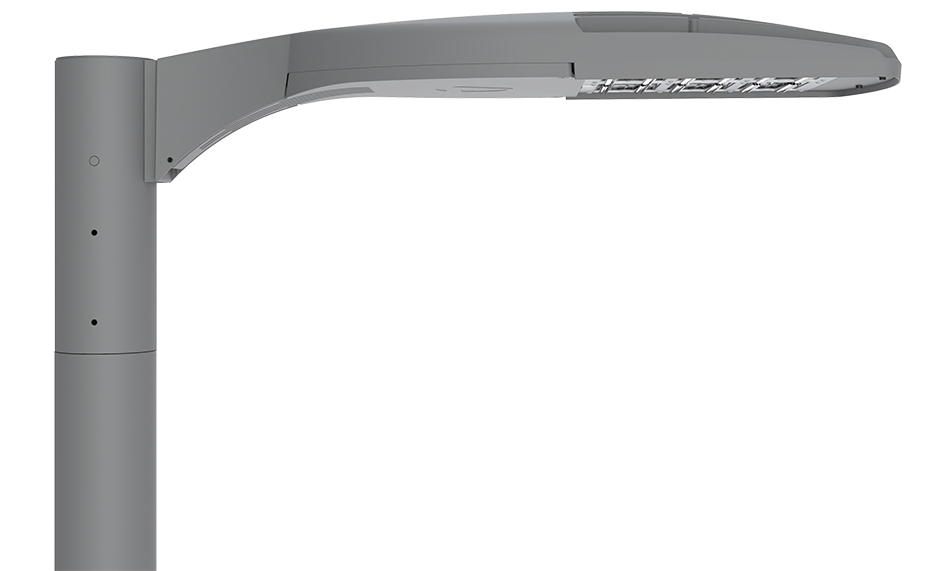
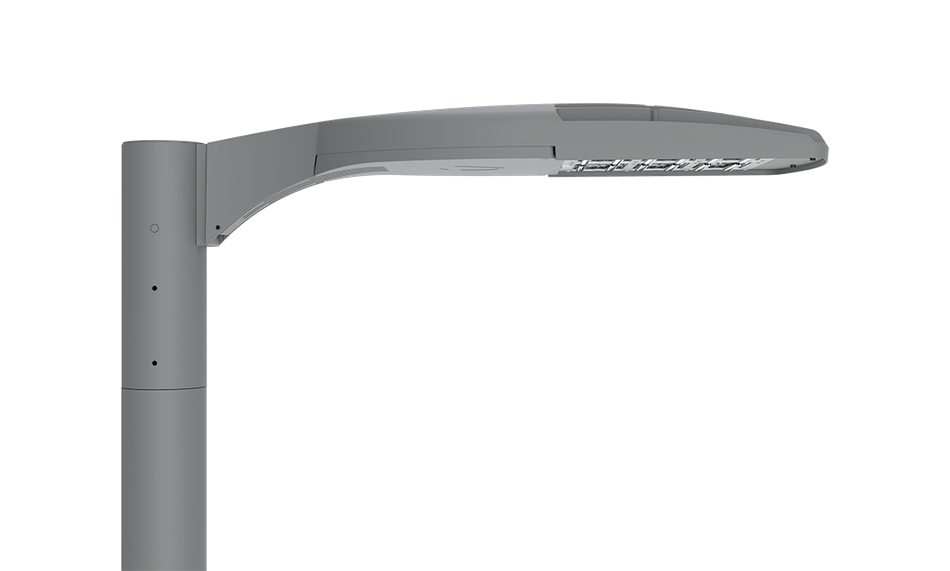
Scale DSX hero image to match DPL, and turn presentation interest list into a dropdown
- DSX's hero/thumbnail photo filled noticeably more of its frame than
  DPL's despite identical CSS, because the source photo had less padding
  around the fixture; rescaled it so the fixture occupies the same
  proportion of the frame as DPL's hero shot
- "What are you interested in?" is now a collapsible dropdown (closed by
  default) instead of an always-open checkbox list, with a live
  "(N selected)" count in the button label so multi-select is still
  possible without permanently taking up form space

Changed region(s): [[0.0305, 0.0, 0.9463, 1.0]]

diff --git a/technical-information.html b/technical-information.html
@@ -82,12 +82,12 @@
             <label for="ti-role">Role / position</label>
             <input type="text" id="ti-role" name="role" autocomplete="organization-title">
           </div>
-          <div class="field">
-            <label id="ti-interest-label">What are you interested in?</label>
-            <div class="checkbox-group" id="ti-interest-group" role="group" aria-labelledby="ti-interest-label">
+          <details class="field field--collapsible" id="ti-interest-details">
+            <summary>What are you interested in?<span class="field__count" id="ti-interest-count"></span></summary>
+            <div class="checkbox-group" id="ti-interest-group" role="group" aria-label="What are you interested in?">
               <p style="color:var(--grey-500);font-family:var(--font-mono);font-size:var(--text-xs)">Loading options…</p>
             </div>
-          </div>
+          </details>
           <details class="field field--collapsible">
             <summary>Anything else?<span class="field__hint">We can tailor a presentation to your requirements — tell us more below.</span></summary>
             <textarea id="ti-notes" name="notes"></textarea>

diff --git a/assets/js/technical-information.js b/assets/js/technical-information.js
@@ -18,6 +18,8 @@
       }
       modal.hidden = false;
       form.reset();
+      updateInterestCount();
+      form.querySelectorAll("details.field--collapsible").forEach(function (d) { d.open = false; });
     });
     modal.querySelectorAll("[data-close]").forEach(function (el) {
       el.addEventListener("click", function () { modal.hidden = true; });
@@ -29,6 +31,13 @@
 
   var root = document.getElementById("presentationsList");
   var interestGroup = document.getElementById("ti-interest-group");
+  var interestCount = document.getElementById("ti-interest-count");
+
+  function updateInterestCount() {
+    if (!interestCount || !interestGroup) return;
+    var n = interestGroup.querySelectorAll('input[type="checkbox"]:checked').length;
+    interestCount.textContent = n ? "(" + n + " selected)" : "";
+  }
 
   fetch("data/presentations.json")
     .then(function (r) { return r.json(); })
@@ -70,6 +79,9 @@
         '</div>'
       );
     }).join("");
+
+    interestGroup.addEventListener("change", updateInterestCount);
+    updateInterestCount();
   }
 
   function render(presentations) {

diff --git a/assets/css/components.css b/assets/css/components.css
@@ -893,8 +893,7 @@
   display: flex;
   flex-direction: column;
   gap: var(--space-4);
-  border: 1px solid var(--border-on-dark);
-  padding: var(--space-3) var(--space-3) var(--space-2);
+  margin-top: var(--space-3);
 }
 
 .checkbox-group__category {
@@ -966,6 +965,15 @@
   letter-spacing: normal;
   font-size: var(--text-sm);
   color: var(--text-muted-on-dark);
+}
+
+.field__count {
+  color: var(--glow);
+  margin-left: var(--space-1);
+}
+
+.field__count:empty {
+  display: none;
 }
 
 .field--collapsible textarea {
